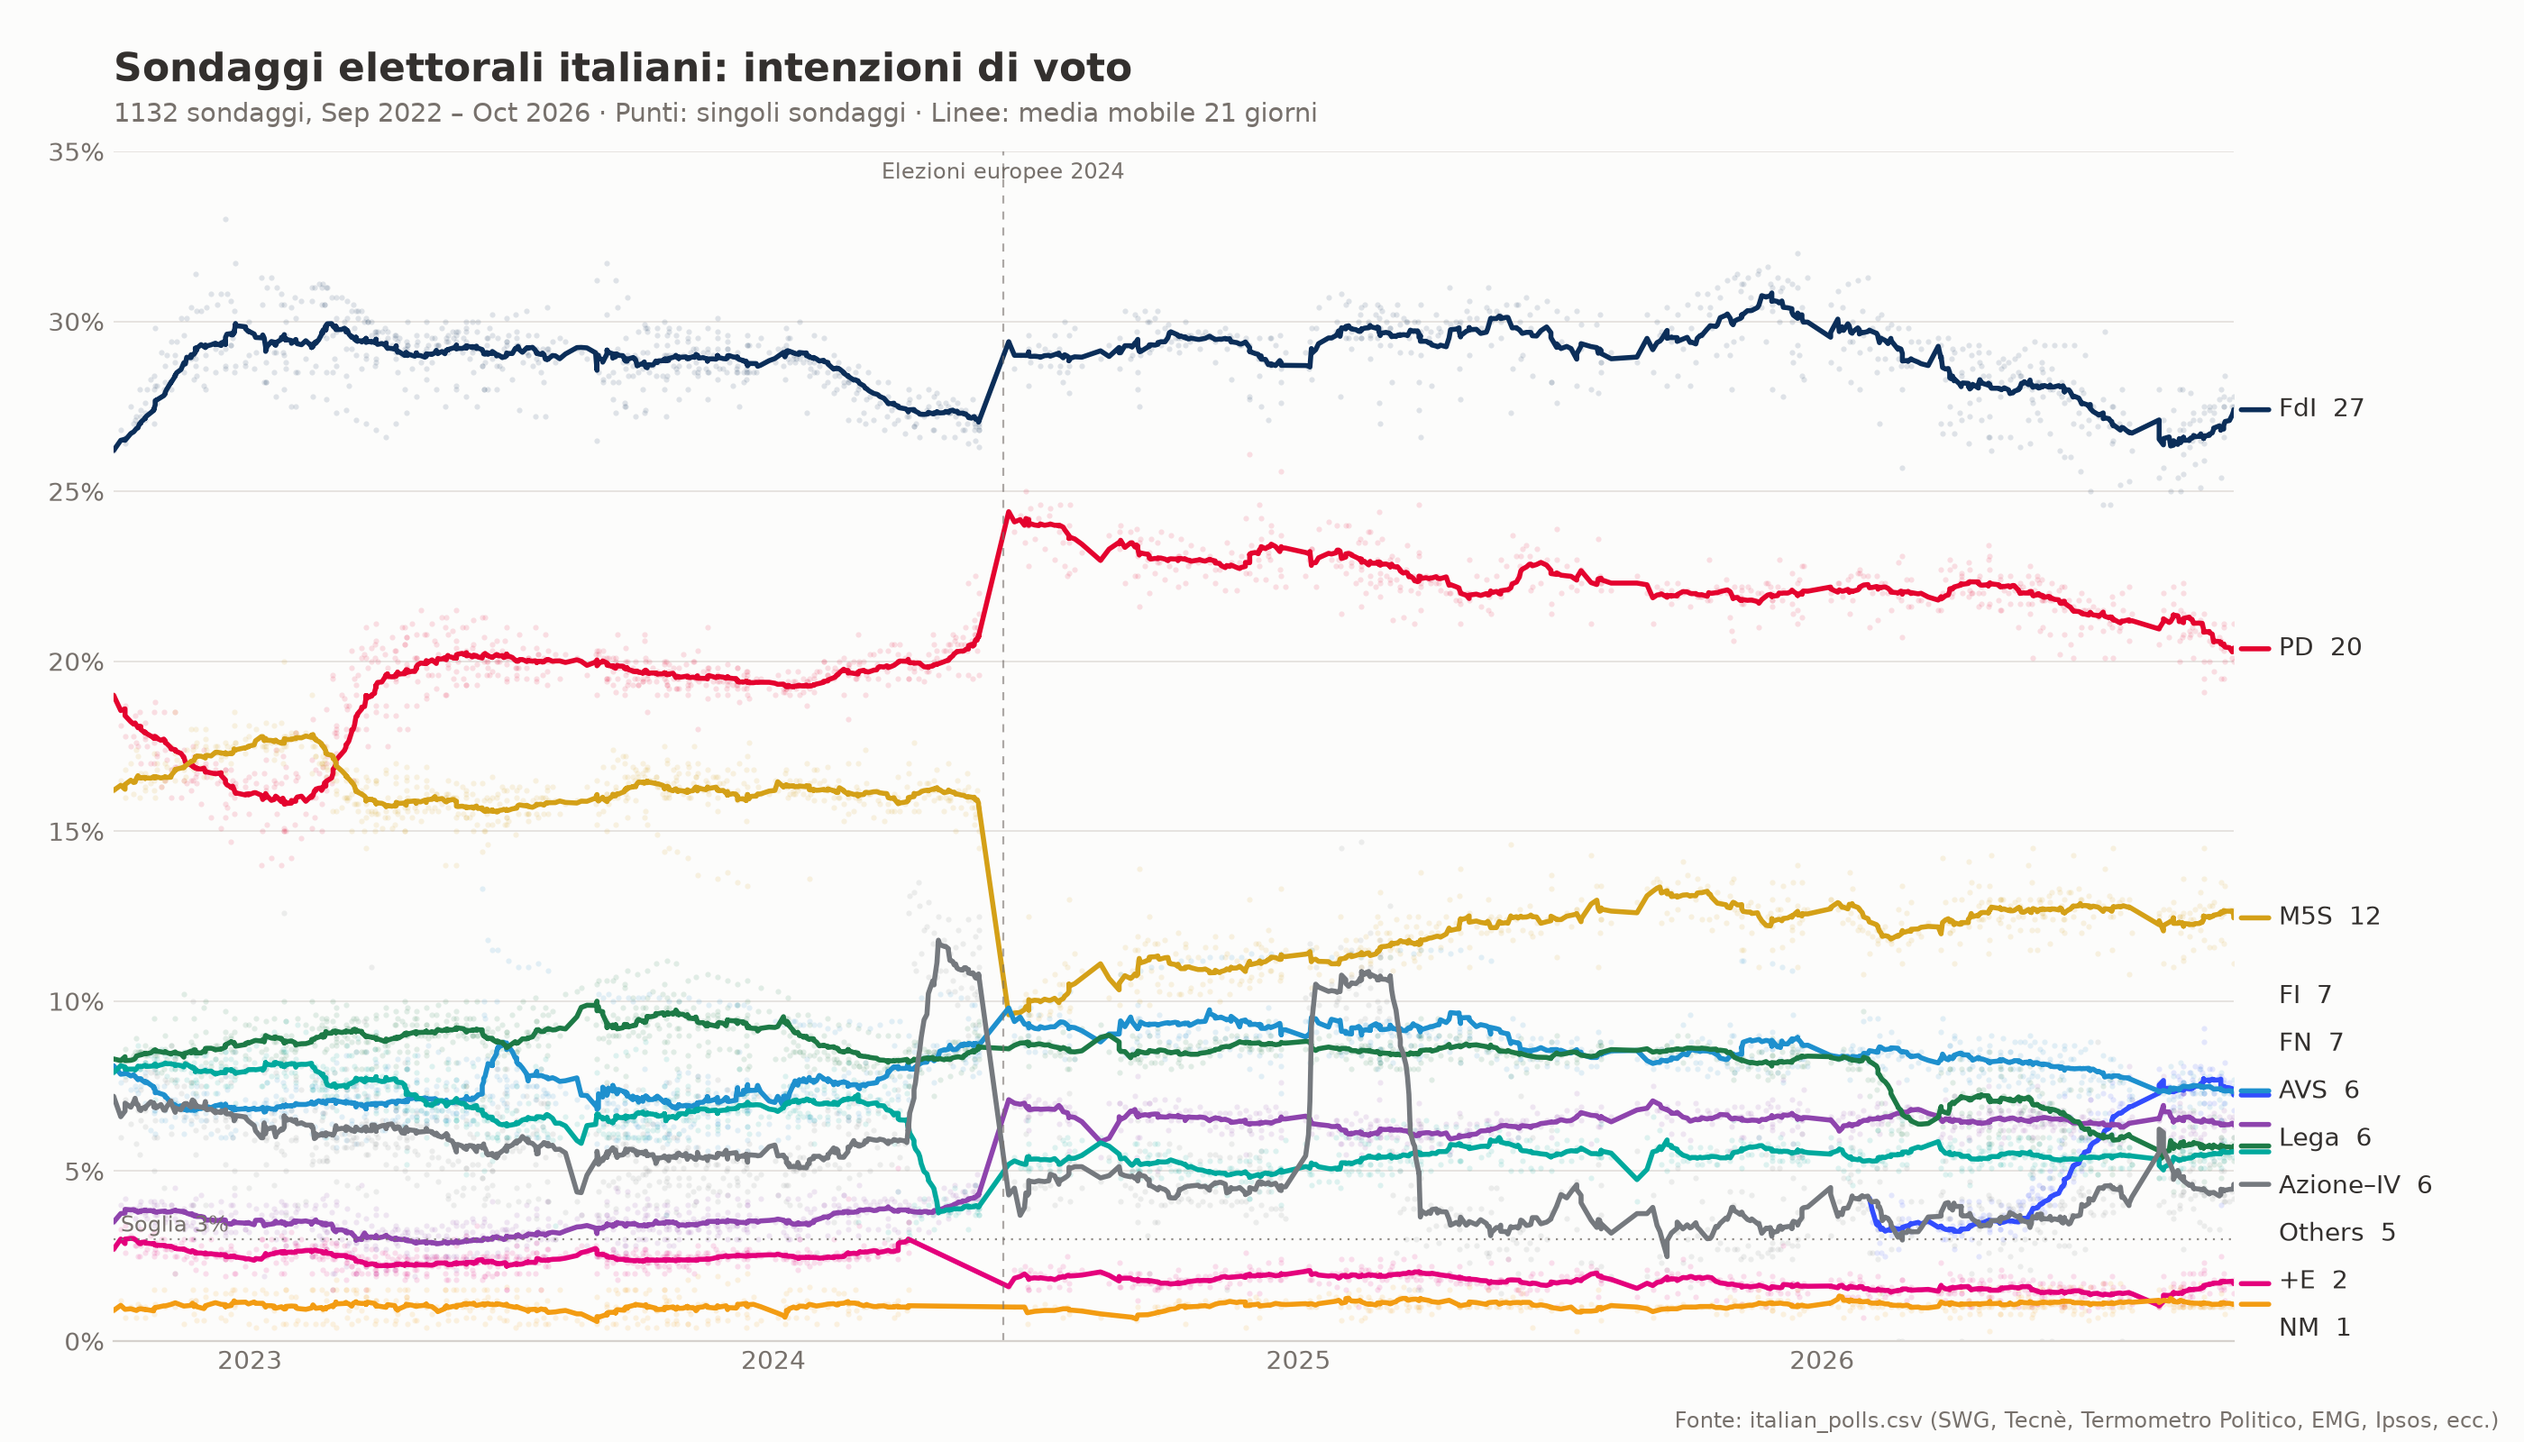
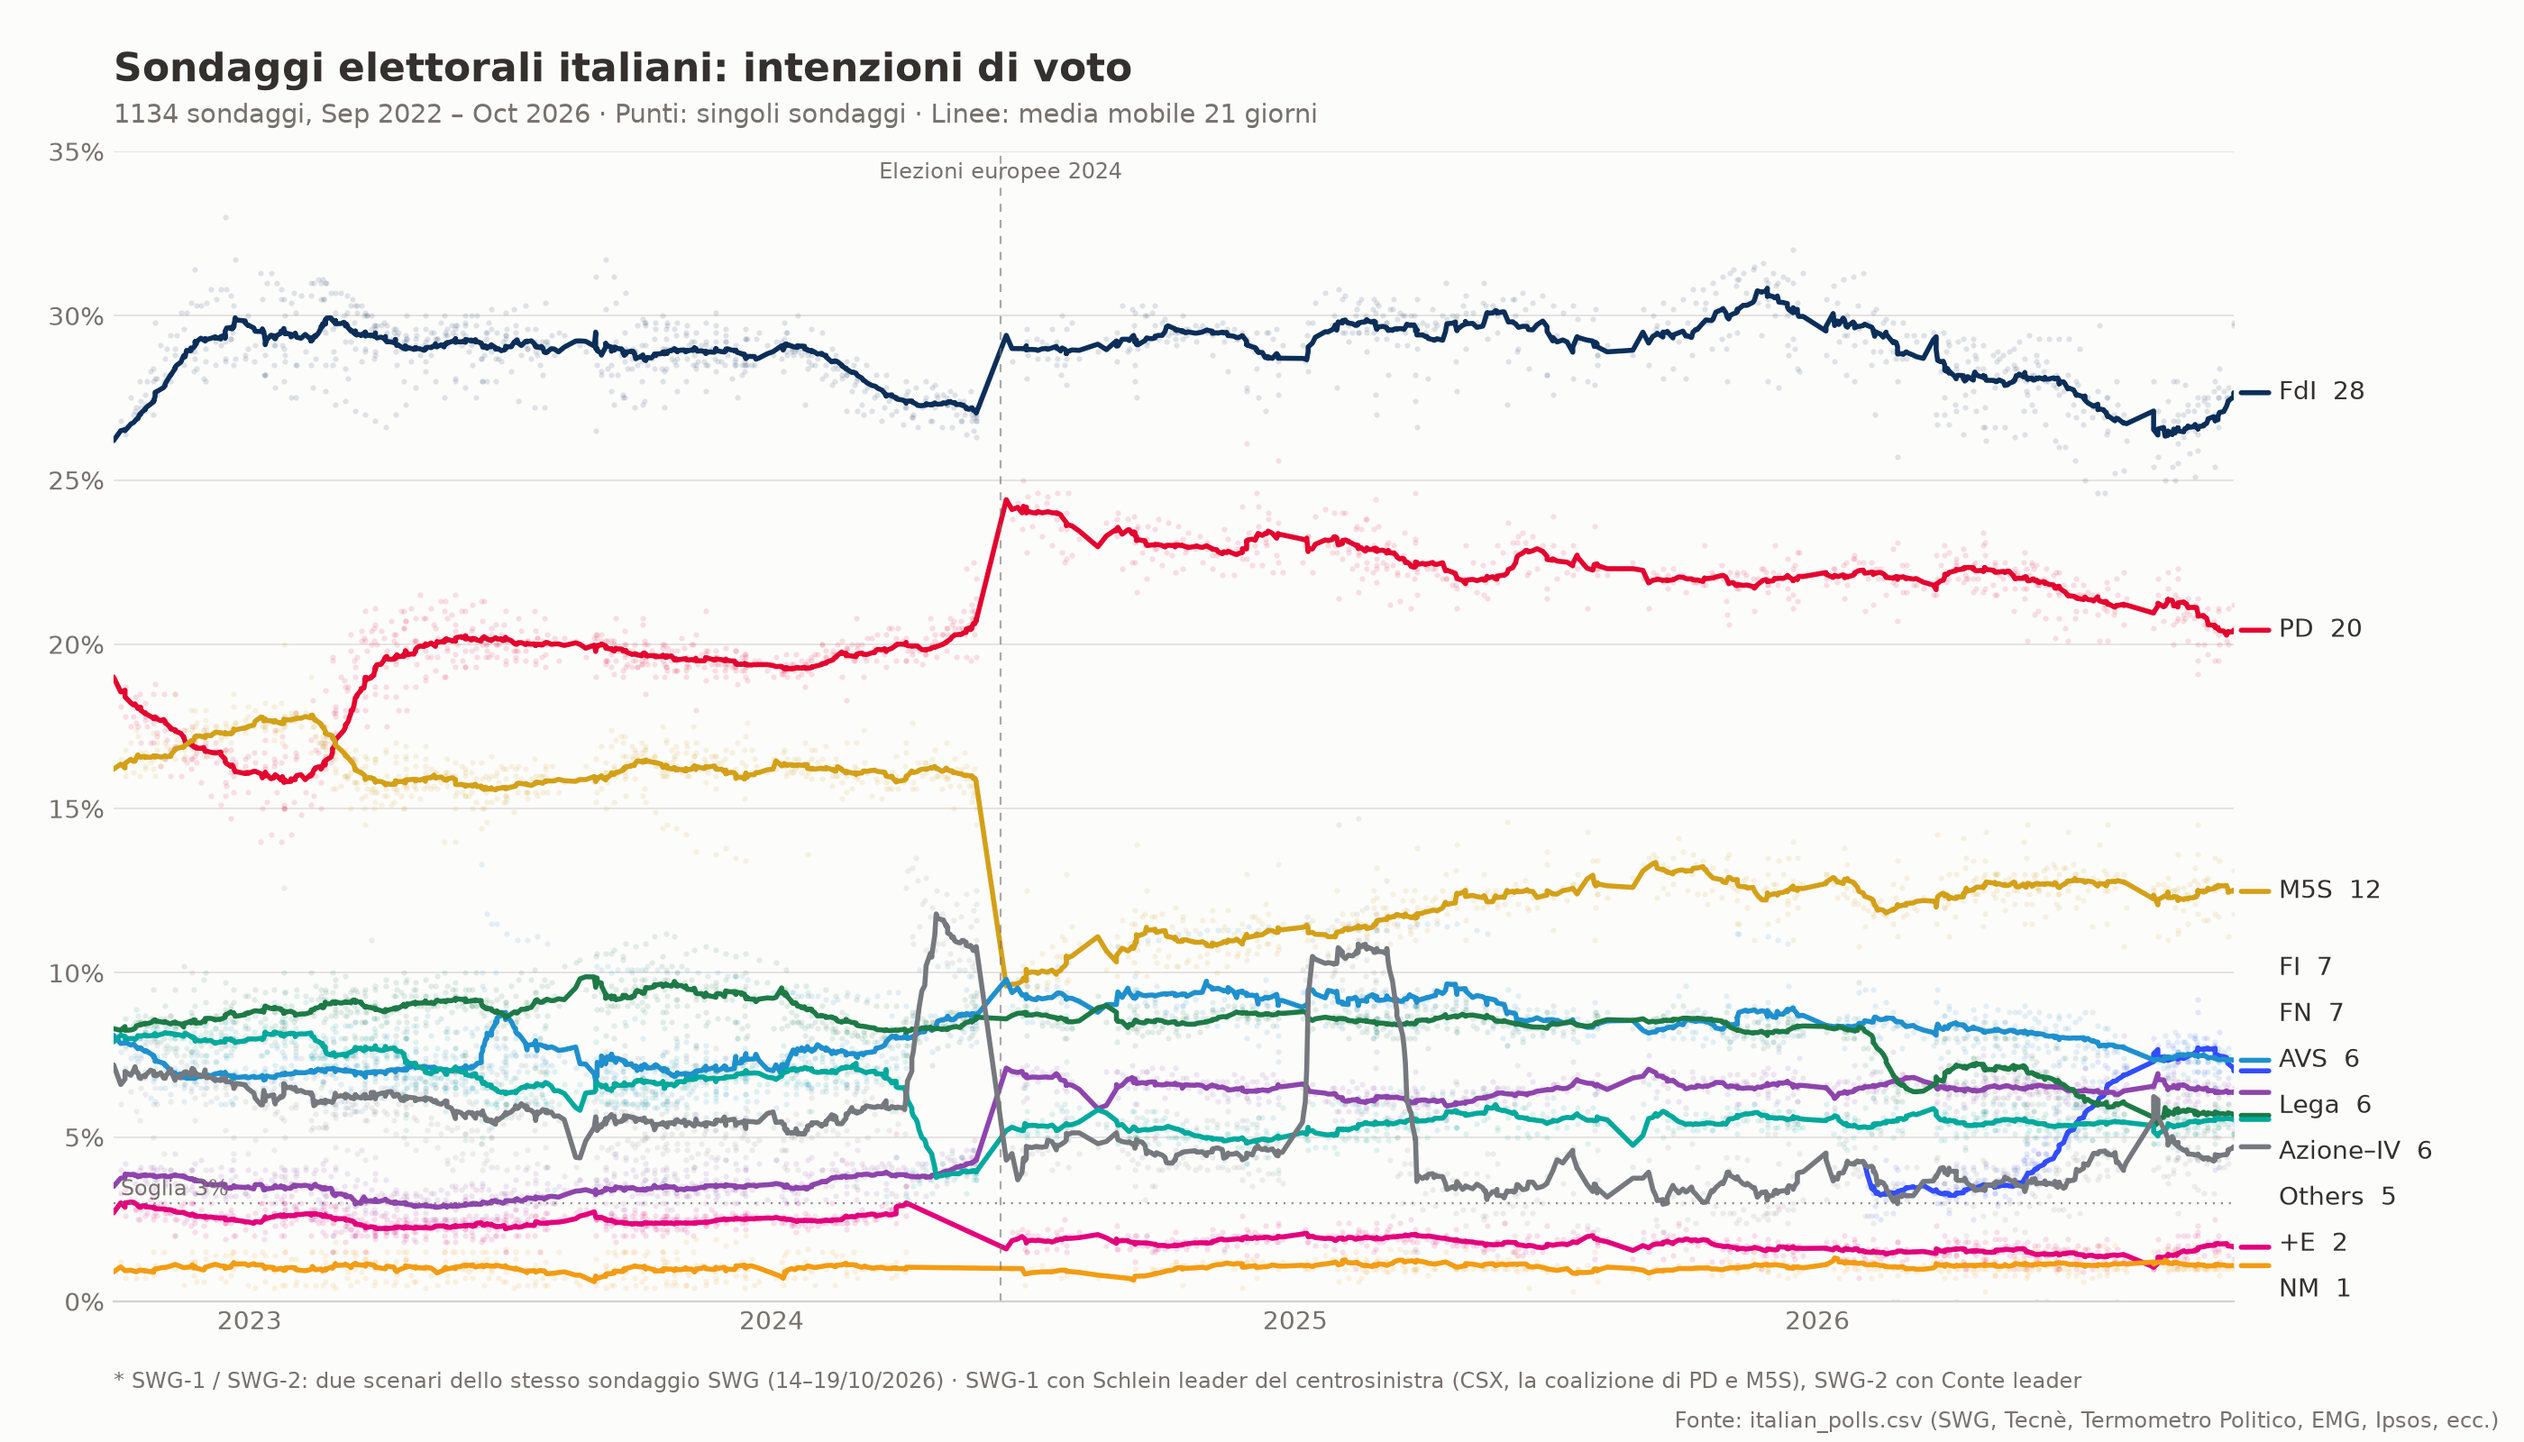
Add SWG (2026-10-14/10-19) as two scenario rows, SWG-1 and SWG-2
SWG published one poll (n=1200) with two coalition-leadership scenarios:
SWG-1 has Schlein leading the centre-left (CSX, PD + M5S), SWG-2 has Conte.
Each is its own row, tagged so they are not mistaken for one poll; a
footnote under all three charts explains the tags.

Others follows the CSV rule (ScN + PLD + residual). Revision 1381154877
(ToxinDemon, 2026-10-20) split PLD+Ora! (1.3) out of the residual and typed
the Schlein residual as 1.9 where its own breakdown gives 2.9 (1.5 + 1.4);
the row sums settle it: Others 5.2 -> 100.0, Conte row Others 5.0 -> 99.8.

The institutes chart now groups by institute with the tag stripped and
shows every poll on the institute's latest date, so both scenarios appear
and the older untagged SWG row drops out (identical output to .last() for
every untagged institute today).

diff --git a/main.py b/main.py
@@ -47,6 +47,17 @@ ELECTIONS = {
     "2024-06-09": "Elezioni europee 2024",
 }
 
+# A poll published as several scenarios on the same fieldwork is kept as one
+# row per scenario, tagged <Institute>-1, -2, ...; each tag set carries a
+# footnote under every chart whose data includes it.
+SCENARIO_NOTES = {
+    frozenset({"SWG-1", "SWG-2"}): (
+        "SWG-1 / SWG-2: due scenari dello stesso sondaggio SWG (14–19/10/2026) · "
+        "SWG-1 con Schlein leader del centrosinistra (CSX, la coalizione di PD e M5S), "
+        "SWG-2 con Conte leader"
+    ),
+}
+
 INK = "#33302e"
 MUTED = "#77716c"
 SURFACE = "#fcfcfb"
@@ -57,6 +68,25 @@ THRESHOLD = 3  # national single-list electoral threshold
 def load_polls(csv_path: str) -> pd.DataFrame:
     df = pd.read_csv(csv_path, parse_dates=["date"])
     return df.sort_values("date").set_index("date")
+
+
+def base_institute(institutes: pd.Series) -> pd.Series:
+    """Institute names with any scenario tag (SWG-1 -> SWG) removed."""
+    return institutes.str.replace(r"-\d+$", "", regex=True)
+
+
+def add_footer(fig: plt.Figure, institutes: pd.Series, x: float, y: float, line: float) -> float:
+    """Draw scenario footnotes and the source line; return the height they take."""
+    present = set(institutes)
+    notes = [note for tags, note in SCENARIO_NOTES.items() if tags & present]
+    for i, note in enumerate(notes):
+        fig.text(x, y + (len(notes) - i) * line, f"* {note}", fontsize=8.5, color=MUTED)
+    fig.text(
+        0.99, y,
+        "Fonte: italian_polls.csv (SWG, Tecnè, Termometro Politico, EMG, Ipsos, ecc.)",
+        ha="right", fontsize=8.5, color=MUTED,
+    )
+    return len(notes) * line
 
 
 def spread_labels(positions: list[float], min_gap: float, lo: float, hi: float) -> list[float]:
@@ -107,8 +137,13 @@ def dodge(values: list[float], gap: float = 0.5, step: float = 0.16) -> list[flo
 
 def plot_institutes(df: pd.DataFrame, out_path: str) -> None:
     cutoff = df.index.max() - pd.Timedelta(days=90)
-    latest = df[df.index >= cutoff].reset_index().groupby("institute").last()
-    latest = latest.sort_values("date")
+    recent = df[df.index >= cutoff].reset_index()
+    # Every poll on each institute's latest date, so the scenarios of a
+    # tagged poll (SWG-1, SWG-2) each get a row and an older untagged poll
+    # by the same institute does not linger as a stale one.
+    base = base_institute(recent["institute"])
+    latest = recent[recent["date"] == recent.groupby(base)["date"].transform("max")]
+    latest = latest.sort_values(["date", "institute"]).set_index("institute")
 
     avg = latest_averages(df)
     rows = [(f"{inst}  ({row['date']:%d/%m})", row) for inst, row in latest.iterrows()]
@@ -169,13 +204,10 @@ def plot_institutes(df: pd.DataFrame, out_path: str) -> None:
         "ordinato per data del sondaggio · Media = media mobile 21 giorni di tutti gli istituti",
         fontsize=10, color=MUTED, va="top",
     )
-    fig.text(
-        0.99, 0.02,
-        "Fonte: italian_polls.csv (SWG, Tecnè, Termometro Politico, EMG, Ipsos, ecc.)",
-        ha="right", fontsize=8.5, color=MUTED,
-    )
+    height = fig.get_figheight()
+    extra = add_footer(fig, latest.index.to_series(), 0.03, 0.02, 0.22 / height)
 
-    fig.subplots_adjust(left=0.19, right=0.97, top=0.79, bottom=0.10)
+    fig.subplots_adjust(left=0.19, right=0.97, top=0.79, bottom=0.10 + extra)
     fig.savefig(out_path, facecolor=SURFACE)
     print(f"Wrote {out_path}")
 
@@ -259,13 +291,9 @@ def plot(df: pd.DataFrame, out_path: str, title: str) -> None:
         f"Punti: singoli sondaggi · Linee: media mobile 21 giorni",
         transform=ax.transAxes, fontsize=10.5, color=MUTED,
     )
-    fig.text(
-        0.99, 0.01,
-        "Fonte: italian_polls.csv (SWG, Tecnè, Termometro Politico, EMG, Ipsos, ecc.)",
-        ha="right", fontsize=8.5, color=MUTED,
-    )
+    extra = add_footer(fig, df["institute"], 0.045, 0.01, 0.22 / fig.get_figheight())
 
-    fig.subplots_adjust(left=0.045, right=0.885, top=0.895, bottom=0.07)
+    fig.subplots_adjust(left=0.045, right=0.885, top=0.895, bottom=0.07 + extra)
     fig.savefig(out_path, facecolor=SURFACE)
     print(f"Wrote {out_path}")
 
